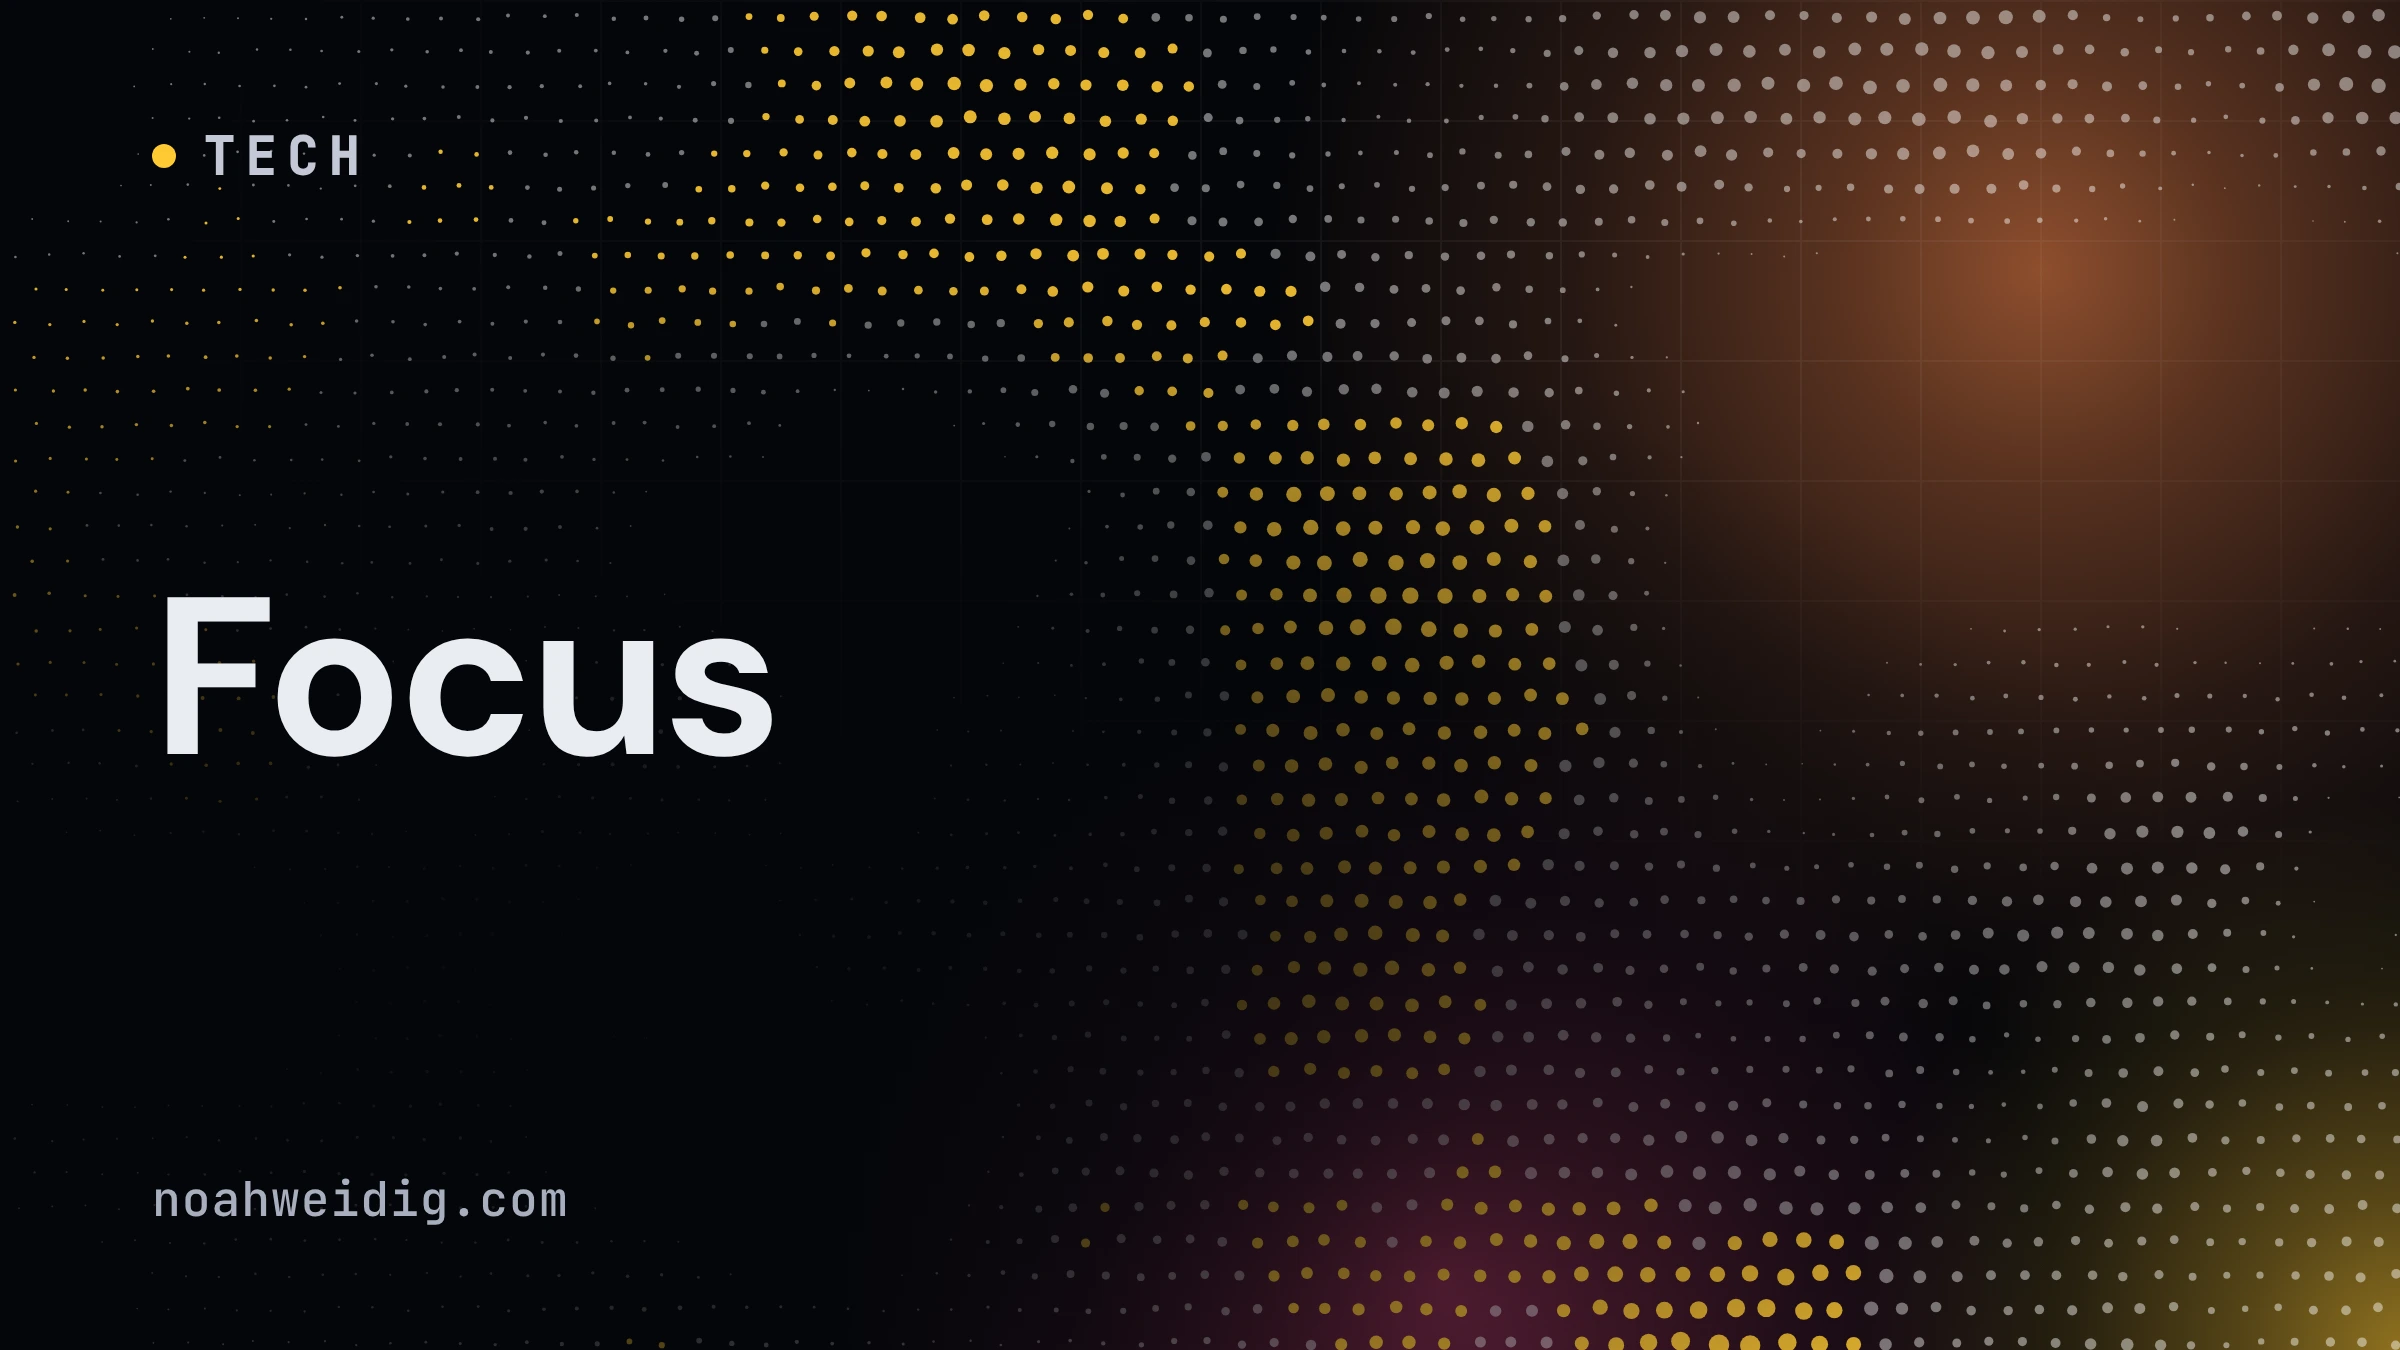
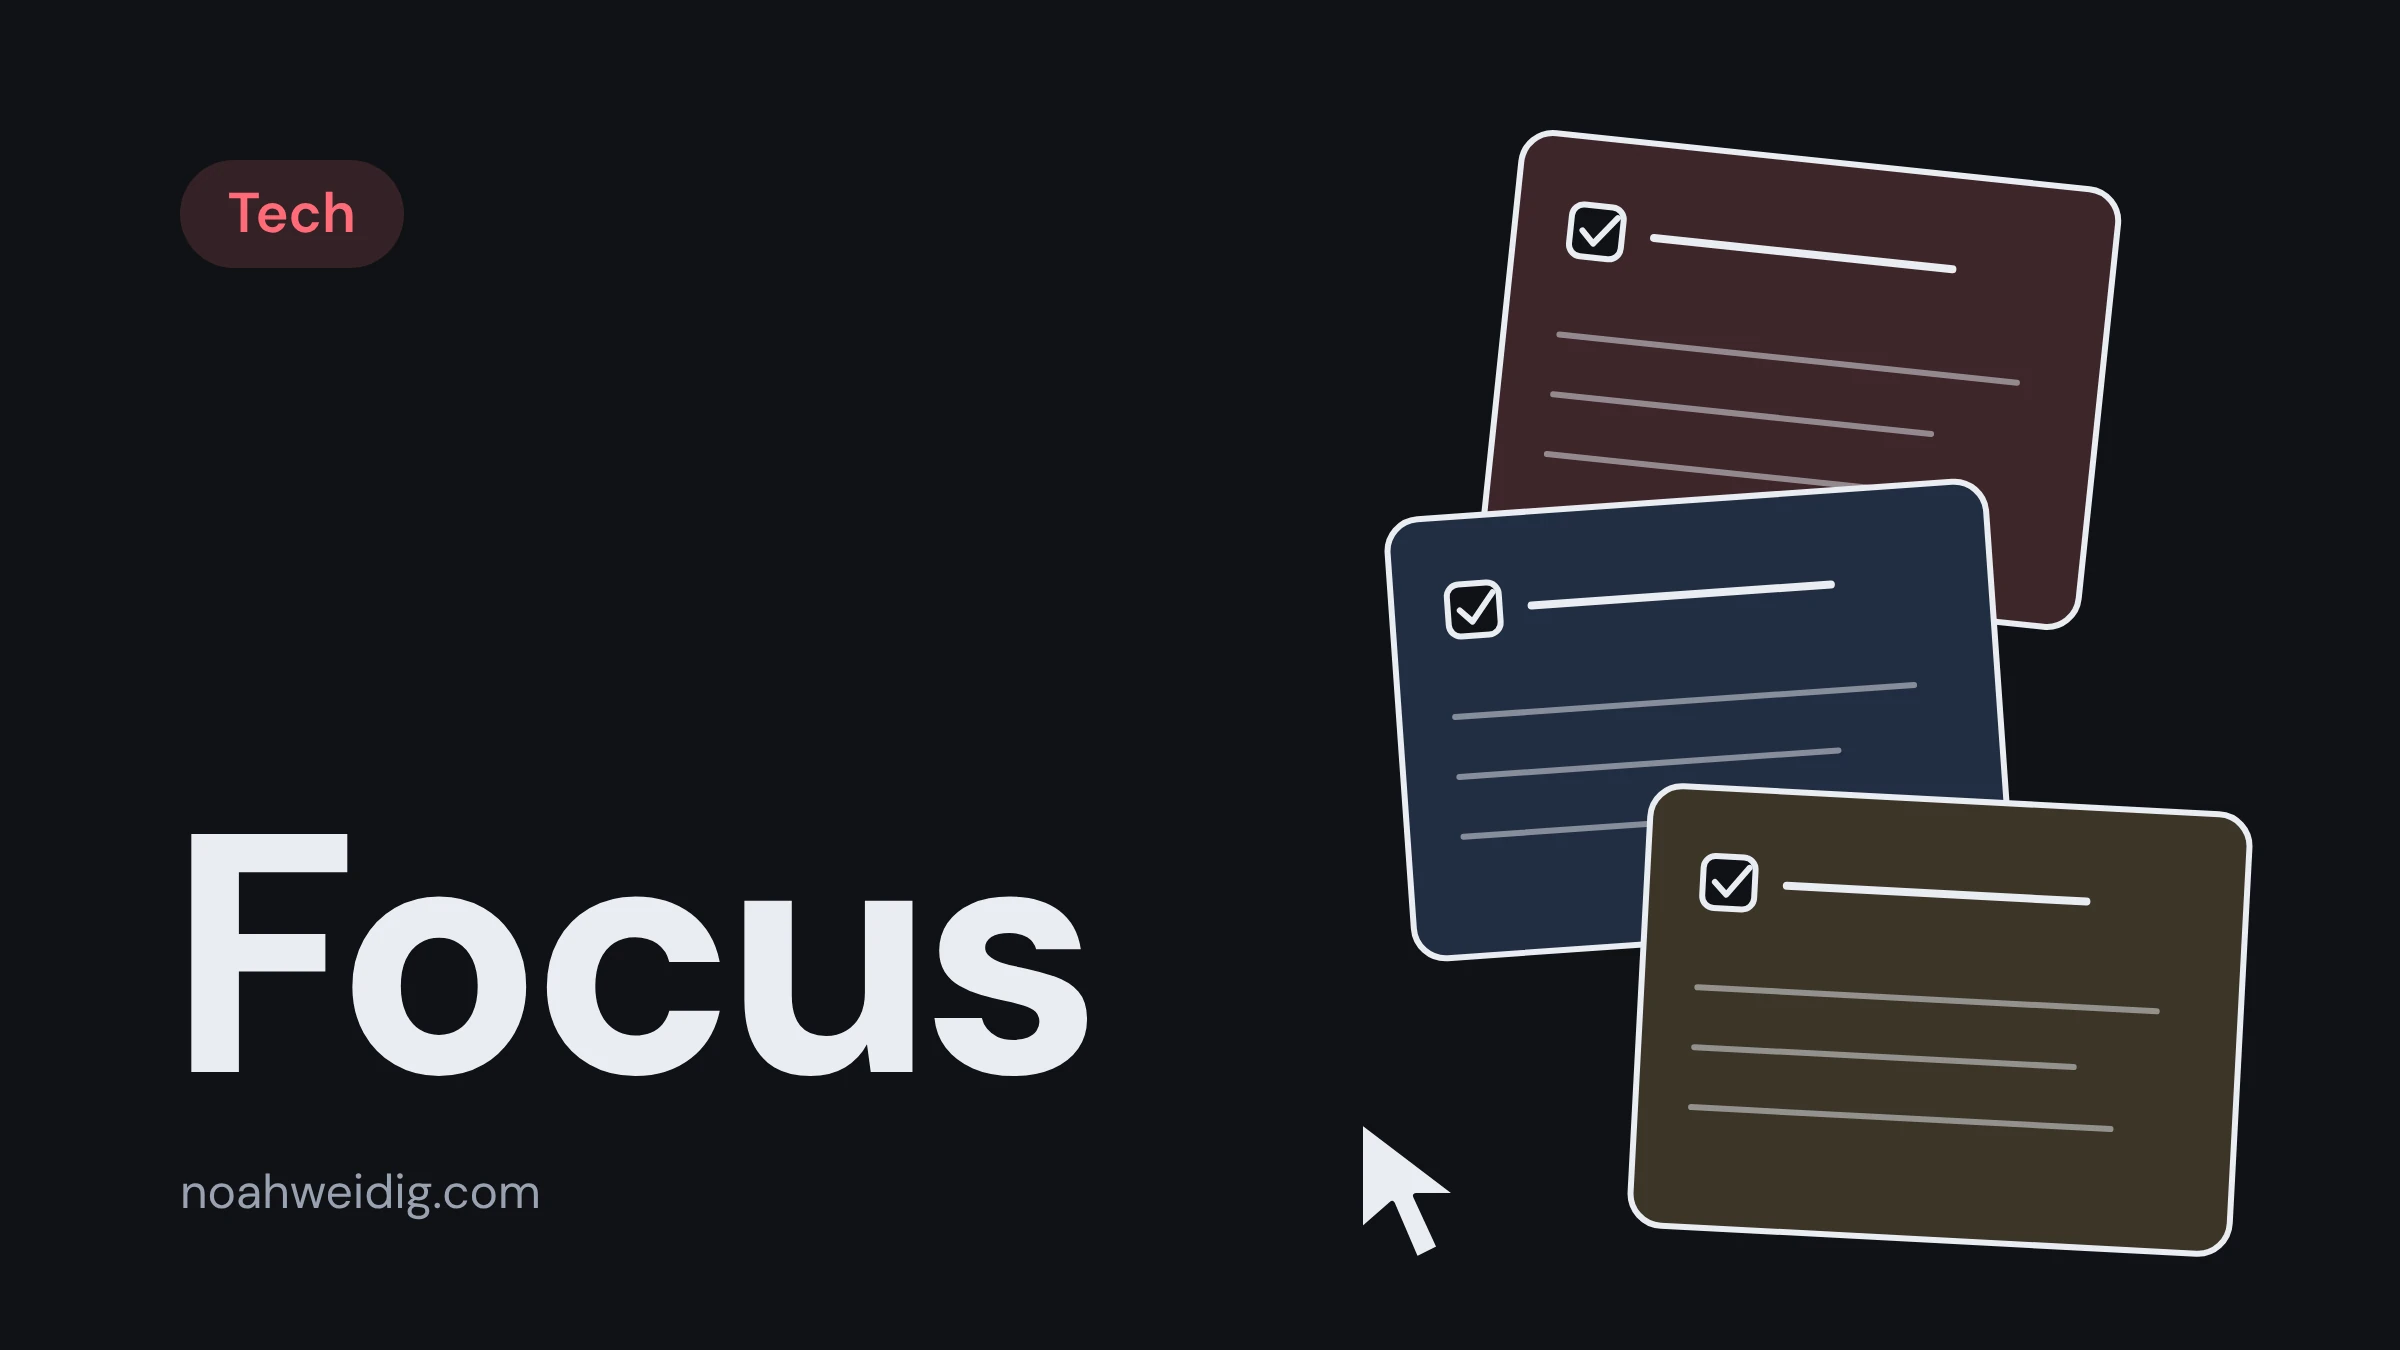
Blog covers: simplified Notion-style stacked cards in theme colors
Claude-Session: https://claude.ai/code/session_01ExN4jnj3pS4qmPmgZYZnUi

diff --git a/src/content/blog/astro-portfolio/index.md b/src/content/blog/astro-portfolio/index.md
@@ -7,7 +7,7 @@ categories:
   - Data Science
 image: './cover.webp'
 image-light: './cover-light.webp'
-image-alt: 'Cover card reading “Building a Portfolio Website” over a halftone dot pattern in magenta and ember'
+image-alt: 'Cover card reading “Building a Portfolio Website” beside three stacked to-do cards in blue, yellow and pink'
 ---
 
 I've been through many iterations of a personal website and learned many lessons along the way. I spent a lot of time thinking about how to create a visually appealing website that balanced speed with interactivity and a high degree of customization. Here's the (messy) journey.

diff --git a/src/content/blog/favorite-r-packages/index.md b/src/content/blog/favorite-r-packages/index.md
@@ -9,7 +9,7 @@ categories:
 draft: false
 image: './cover.webp'
 image-light: './cover-light.webp'
-image-alt: 'Cover card reading “My Favorite R Packages” over a halftone dot pattern in violet and cyan'
+image-alt: 'Cover card reading “My Favorite R Packages” beside three stacked to-do cards in green, violet and teal'
 ---
 
 These are the R packages I install on a fresh machine before anything else.

diff --git a/src/content/blog/welcome/index.md b/src/content/blog/welcome/index.md
@@ -6,7 +6,7 @@ categories:
   - Thoughts
 image: './cover.webp'
 image-light: './cover-light.webp'
-image-alt: 'Cover card reading “Welcome to My Blog” over a halftone dot pattern in lime and teal'
+image-alt: 'Cover card reading “Welcome to My Blog” beside three stacked to-do cards in pink, green and violet'
 ---
 
 ## Welcome

diff --git a/src/content/blog/focus/index.md b/src/content/blog/focus/index.md
@@ -7,7 +7,7 @@ categories:
 draft: false
 image: './cover.webp'
 image-light: './cover-light.webp'
-image-alt: 'Cover card reading “Focus” over a halftone dot pattern in amber and ember'
+image-alt: 'Cover card reading “Focus” beside three stacked to-do cards in red, blue and yellow'
 ---
 
 ## The problem
